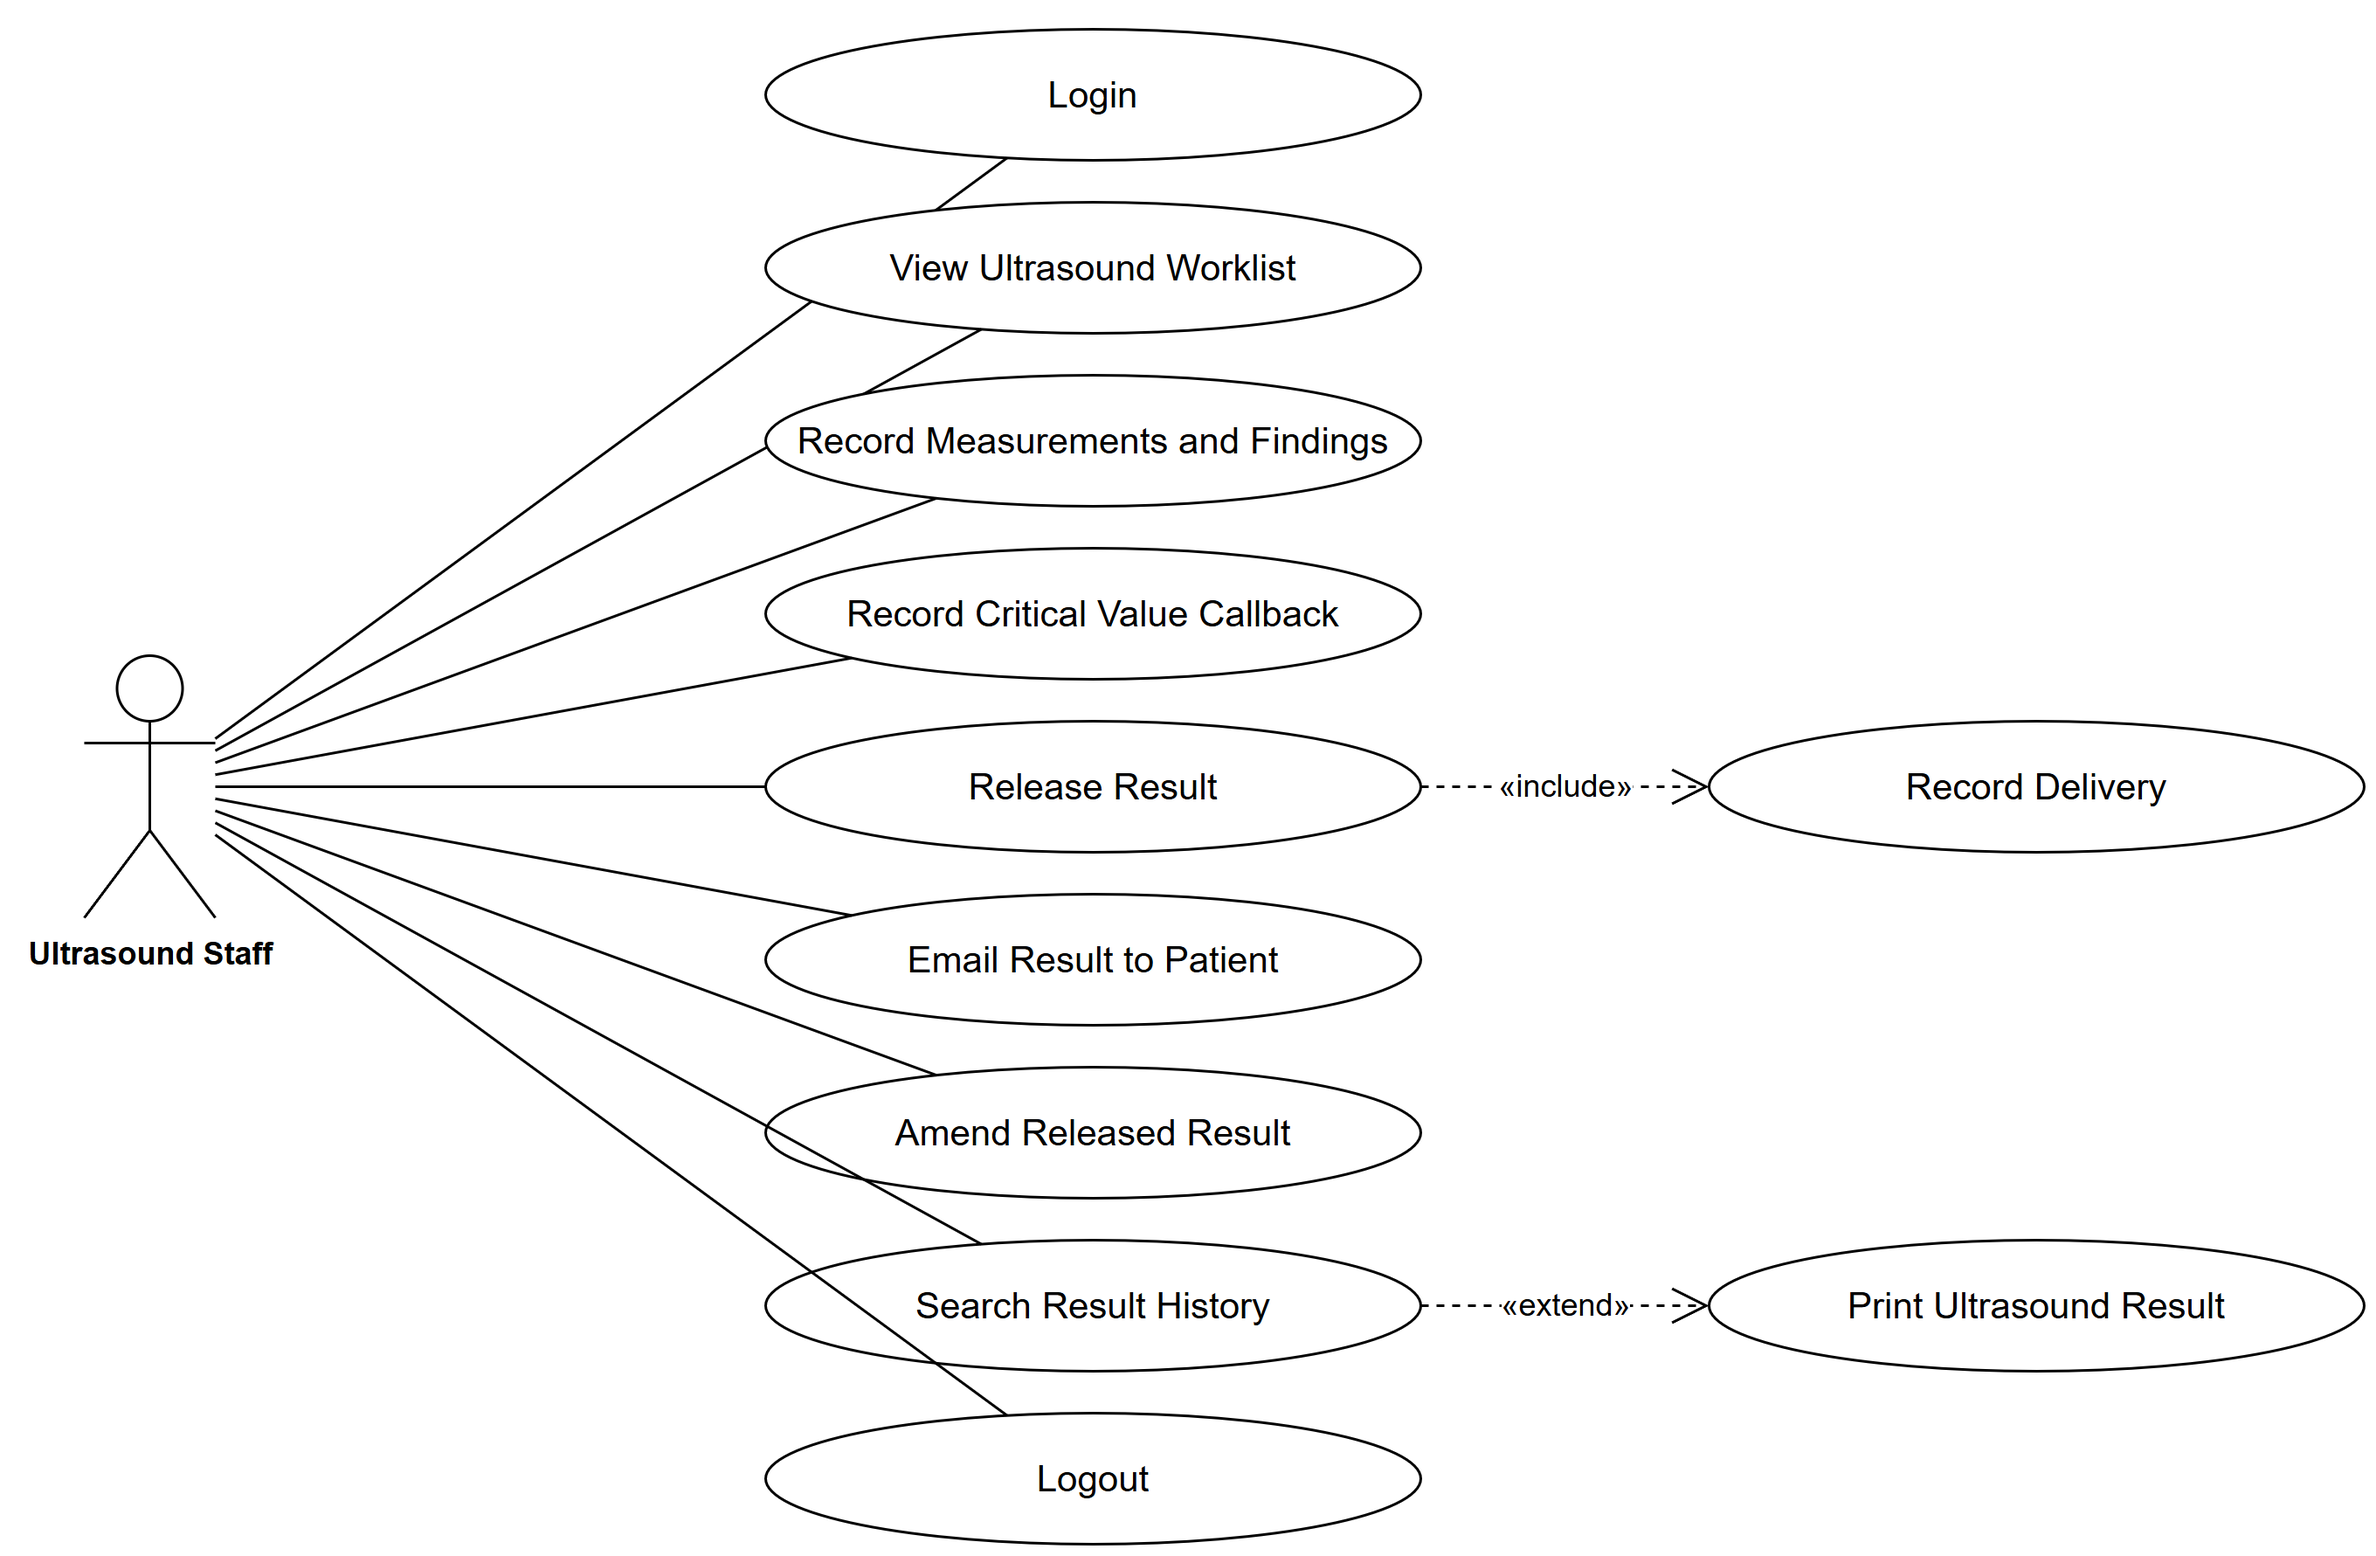
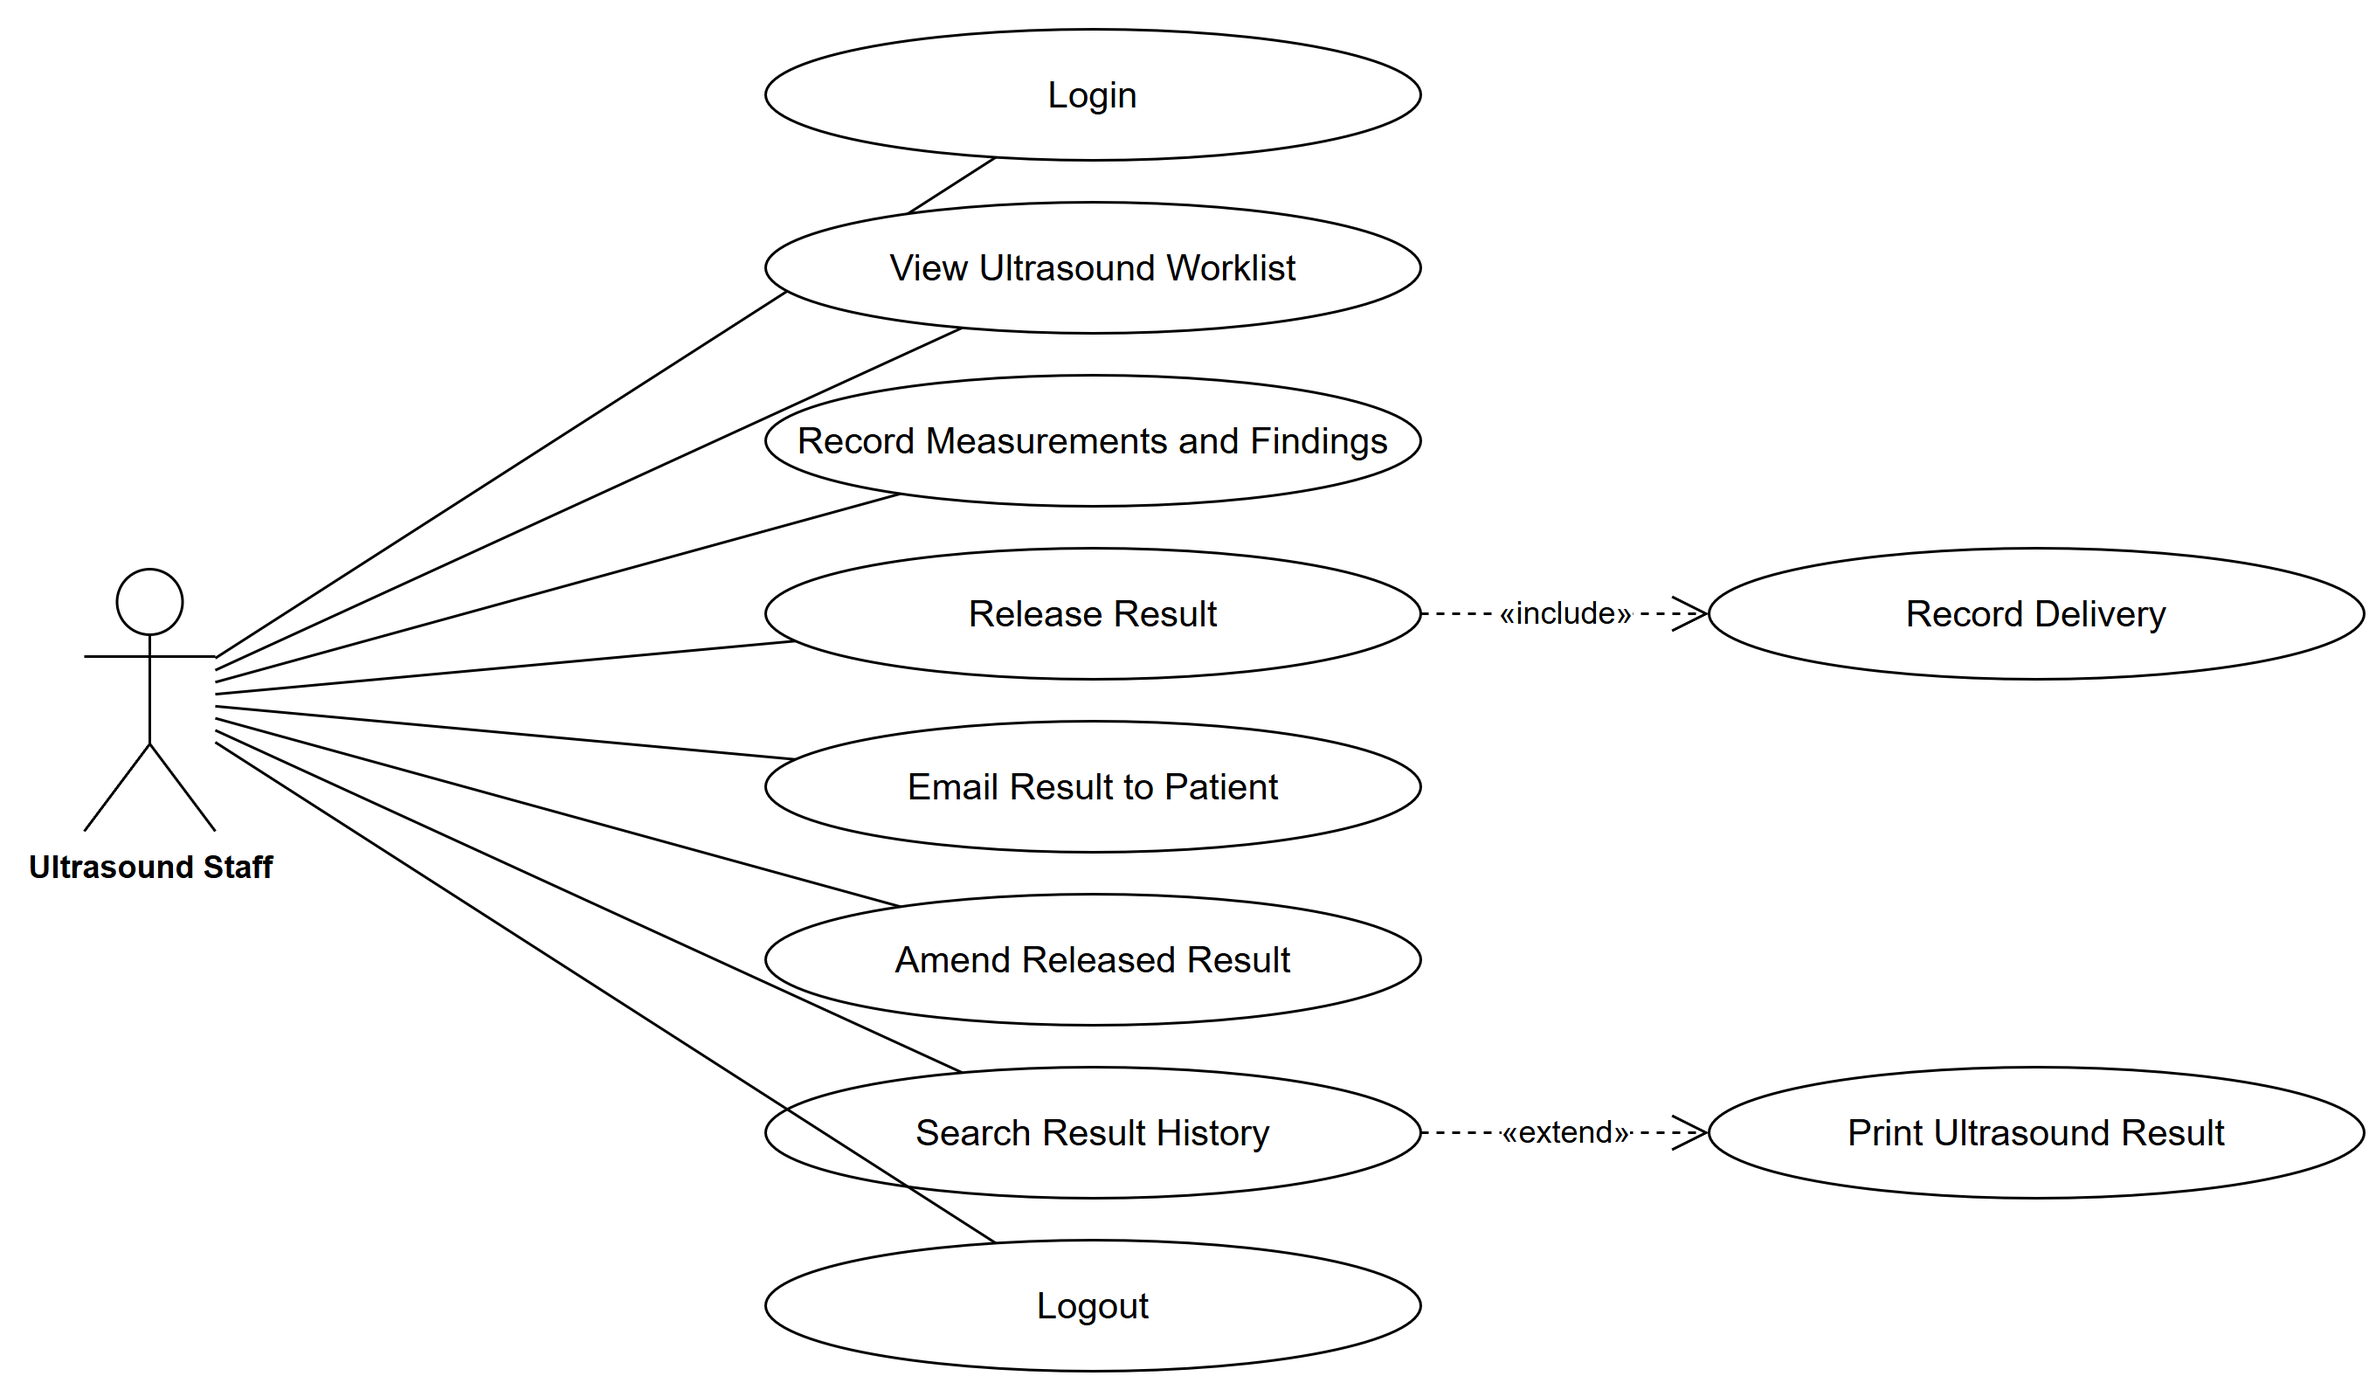
Take critical-value callbacks out of the diagrams
[1.96.0] The clinic is not responsible for calling a physician about a
critical result, so it does not belong in the paper. Gone from the three
department flowcharts, the three department use cases, and the three
department level 0 sheets.

The ERD still shows is_critical and the three critical_acknowledged
columns because it is generated from the live database, which still has
them. The feature is also still in the system: 29 files, the
results:acknowledge_critical permission, the callback dialog, the Today
tile and a spec. Left alone pending a decision on whether it comes out of
the system too.

diff --git a/database/migrations.md b/database/migrations.md
@@ -1,5 +1,28 @@
 # Database Migration & Schema History
 
+## [1.96.0] - 2026-10-06 (Critical-value callbacks out of the diagrams; the system still has them)
+
+No migration.
+
+Steven: the clinic is not responsible for calling a physician about a critical result, so it does
+not belong in the paper. Removed from the diagrams:
+
+- the "Critical value?" decision and its "Call doctor and log it" branch, in all three department
+  flowcharts;
+- "Record Critical Value Callback" from the Laboratory, Ultrasound and X-Ray use cases;
+- the "Critical callback" flow into the three department Level 0 sheets, now "Report delivery".
+
+**The ERD still shows four columns, and that is not an oversight.** It is generated from the live
+database, where `test_results` still carries `is_critical`, `critical_acknowledged_at`,
+`critical_acknowledged_by` and `critical_acknowledgement_note`, with one row flagged. Deleting them
+from the drawing would make the ERD describe a database that does not exist.
+
+The feature is also still in the running system: 29 files, the `results:acknowledge_critical`
+permission, the callback dialog, the Critical Callbacks tile on Today, and `critical-callback.spec`.
+Left alone pending Steven's decision — either it comes out of the system too (a migration to drop
+the columns, the permission, the screens and the spec), or it stays and the paper says nothing about
+it, which leaves a tile on Today that no figure explains.
+
 ## [1.95.0] - 2026-10-06 (A checker for the diagrams, and the three faults it found)
 
 No migration. Documentation only.
